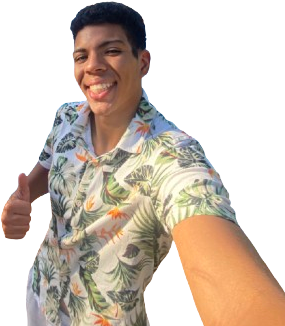
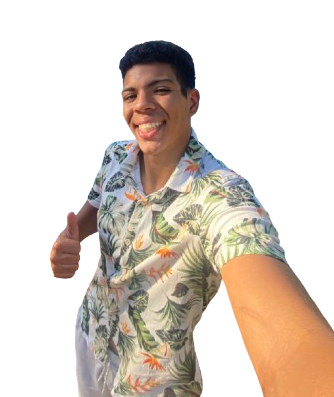
complete home

diff --git a/gs_portfolio/styles/style.css b/gs_portfolio/styles/style.css
@@ -66,7 +66,7 @@ img {
     gap: var(--fs-h4);
 }
 
-section {height: 1000px;}
+section {padding: 2rem 0 4rem;}
 
     /* == == == == Splash Screen == == == == */
 
@@ -318,36 +318,154 @@ body.dark_theme {
     --c-light:     #0d0b0b;
     --c-light-d:   #000;
 }
+
+    /* == == == == Main == == == == */
+
+#home {
+    padding: 0 0 4rem;
+    height: 100vh;
+}
+
+#home_container .grid {gap: 0;}
+
+#home_content {
+    grid-template-columns: .5fr 3fr;
+    padding-top: 0;
+    align-items: center;
+}
+
+#home_social {
+    display: grid;
+    grid-template-columns: max-content;
+    row-gap: 1rem;
+}
+
+.home_social_icon i {
+    color: var(--c-primary);
+    font-size: var(--fs-h3);
+}
+
+.home_social_icon i:hover {color: var(--c-primary-d);}
+#home_data {grid-column: 1/3;}
+#home_title {
+    font-size: var(--fs-h2);
+    font-weight: 600;
+}
+
+#home_sub {
+    color: var(--c-primary-l);
+    font-weight: 600;
+    margin-bottom: .75rem;
+    font-size: var(--fs-h3);
+}
+
+#home_sub:hover {color: var(--c-primary);}
+#home_desc {margin-bottom: 1.5rem;}
+
+#home_scroll {
+    margin-top: 1.8rem;
+    display: flex;
+    justify-content: center;
+    transition: .3s;
+}
+
+#home_scroll:hover {transform: translateY(.3rem);}
+
+#home_scroll_btn i {
+    color: var(--c-primary);
+    font-size: var(--fs-h4);
+}
+
+#home_scroll_name {
+    font-weight: 600;
+    margin: 0 .3rem;
+    font-size: var(--fs-small);
+}
+
+#home_scroll_arrow {font-size: var(--fs-h5) !important;}
+
+.btn {
+    border-radius: .5rem;
+    background-color: var(--c-primary);
+    font-weight: 600;
+    padding: 1rem;
+    display: inline-block;
+}
+
+.btn:hover {background-color: var(--c-primary-d);}
+
+.btn_icon {
+    margin-left: .5rem;
+    font-size: var(--fs-h5);
+    transition: .3s;
+}
+
+.btn_flex {
+    display: inline-flex;
+    align-items: center;
+}
+
+#home_img_wrapper {
+    margin-inline: auto 2rem;
+    transform: scale(.9);
+    position: relative;
+}
+
+#home_img_wrapper::before,
+#home_img_wrapper::after {
+    content: '';
+    position: absolute;
+    inset: 0;
+}
+
+#home_img_wrapper::before {
+    background-color: var(--c-primary-l);
+    animation: animate_before 8s ease-in-out infinite;
+}
+
+#home_img_wrapper::after {background-color: var(--c-primary);}
+#home_img_wrapper::after,
+#home_img {
+    animation: animate_after 8s ease-in-out infinite;
+}
+
+#home_img {
+    position: relative;
+    vertical-align: middle;
+    z-index: 1;
+}
+
+@keyframes animate_before {
+    0% {
+        border-radius: 65% 35% 29% 71% / 55% 30% 70% 45%;
+    }
+
+    50% {
+        border-radius: 21% 79% 50% 50% / 21% 50% 50% 79%;
+    }
+
+    100% {
+        border-radius: 65% 35% 29% 71% / 55% 30% 70% 45%;
+    }
+}
+
+@keyframes animate_after {
+    0% {
+        border-radius: 21% 79% 50% 50% / 21% 50% 50% 79%;
+    }
+
+    50% {
+        border-radius: 65% 35% 29% 71% / 55% 30% 70% 45%;
+    }
+
+    100% {
+        border-radius: 21% 79% 50% 50% / 21% 50% 50% 79%;
+    }
+}
     
     /* == == == == RESPONSIVENESS == == == == */
 
-    /* == == == == Splash Screen == == == == */
-
-@media screen and (max-width: 500px) {
-    .logo {font-size: var(--fs-h3);}
-}
-
-    /* == == == == Whatsapp Fixed Button == == == == */
-
-@media screen and (max-width: 879px) {
-    #whatsapp a {
-        bottom: 63px;
-        left: 20px;
-    }
-
-    .up a {bottom: 230px !important; transition: .3s;}
-}
-
-    /* == == == == Scroll Top Fixed Button == == == == */
-
-@media screen and (max-width: 879px) {
-    #scrollTop {
-        bottom: 63px;
-        right: 20px;
-    }
-}
-
-    /* == == == == Header == == == == */
+    /* == == == == Small Devices == == == == */
 
 @media screen and (max-width: 350px) {
     .container {
@@ -357,9 +475,28 @@ body.dark_theme {
 
     #nav_menu {padding: 2rem .25rem 4rem;}
     #nav_list {column-gap: 0;}
+    #home_content {grid-template-columns: .25fr 3fr;}
 }
 
+@media screen and (max-width: 500px) {
+    .logo {font-size: var(--fs-h3);}
+}
+
+    /* == == == == Mid Devices == == == == */
+
 @media screen and (max-width: 879px) {
+    #whatsapp a {
+        bottom: 63px;
+        left: 20px;
+    }
+
+    .up a {bottom: 230px !important; transition: .3s;}
+
+    #scrollTop {
+        bottom: 63px;
+        right: 20px;
+    }
+
     #nav_menu {
         box-shadow: 0 -1px 4px rgba(0, 0, 0, .15);
         border-radius: 1.5rem 1.5rem 0 0;
@@ -371,6 +508,8 @@ body.dark_theme {
         transition: .3s;
     }
 }
+
+    /* == == == == Large devices == == == == */
 
 @media screen and (min-width: 880px) {
     .container {
@@ -404,4 +543,50 @@ body.dark_theme {
 
     #nav_menu {margin-left: auto;}
     .change_theme {margin: 0 0 0 1rem;}
+
+    #home {
+        padding: 0;
+        height: 100vh;
+    }
+
+    #home_container {height: 100%;}
+
+    #home_content {
+        margin-top: 100px;
+        display: flex;
+    }
+
+    #home_social {
+        order: 1;
+        margin-left: 1.5rem;
+        display: flex;
+        flex-direction: column;
+        row-gap: 2rem;
+    }
+
+    #home_data {
+        order: 2;
+        margin: 0 6rem;
+        width: 40%;
+        text-align: left;
+    }
+
+    #home_title {font-size: var(--fs-big);}
+
+    #home_sub {
+        margin-bottom: .7rem;
+        font-size: var(--fs-h1);
+    }
+
+    #home_desc {margin-bottom: 2.4rem;}
+    #home_scroll {margin-top: 3rem;}
+
+
+    #home_scroll_arrow {font-size: var(--fs-h5) !important;}
+
+    #home_img_wrapper {
+        order: 3;
+        margin: 0;
+        transform: scale(1);
+    }
 }

diff --git a/gs_portfolio/index.html b/gs_portfolio/index.html
@@ -77,6 +77,48 @@
         </nav>
     </header>
 
+<!-- == == == == Main == == == == -->
+    <main>
+        <section id="home">
+            <div id="home_container" class="grid container">
+                <div id="home_content" class="grid">
+                    <div id="home_social">
+                        <a class="home_social_icon" href="https://api.whatsapp.com/send?phone=551196646-9915" target="_blank">
+                            <i class="fa-brands fa-whatsapp"></i>
+                        </a>
+                        <a class="home_social_icon" href="https://www.instagram.com/eusouguisousa" target="_blank">
+                            <i class="fa-brands fa-instagram"></i>
+                        </a>
+                    </div>
+
+                    <div id="home_img_wrapper">
+                        <img id="home_img" src="assets/main.png" alt="Foto principal">
+                    </div>
+
+                    <div id="home_data">
+                        <h1 id="home_title">Olá, sou o Guilherme</h1>
+                        <h2 id="home_sub">Filmmaker</h2>
+                        <p id="home_desc">Lorem ipsum dolor sit amet consectetur adipisicing elit. Aperiam voluptates modi nostrum itaque laudantium non tempore veritatis? Eaque facere itaque quia id repellendus minus quas..</p>
+
+                        <a href="#contacts" class="btn btn_flex">
+                            Entre em contato <i class="btn_icon fa-regular fa-paper-plane"></i>
+                        </a>
+                    </div>
+                </div>
+
+                <div id="home_scroll">
+                    <a id="home_scroll_btn" class="btn_flex" href="#services">
+                        <i id="home_scroll_mouse" class="fa-solid fa-computer-mouse"></i>
+                        <span id="home_scroll_name">Role para baixo</span>
+                        <i id="home_scroll_arrow" class="fa-solid fa-arrow-down"></i>
+                    </a>
+                </div>
+            </div>
+        </section>
+    </main>
+
+
+
 <section id="services"><h1>services</h1></section>
 
 <section id="portfolio"><h1>portfolio</h1></section>
